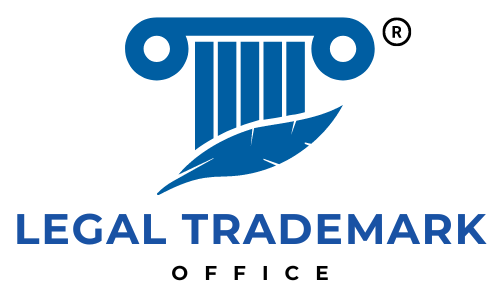
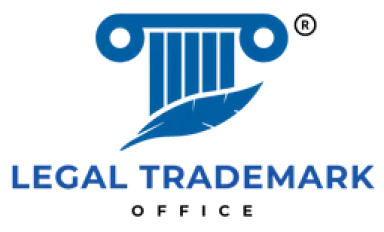
Save work in progress on master

diff --git a/components/ui/Header.jsx b/components/ui/Header.jsx
@@ -1,0 +1,74 @@
+"use client";
+
+import Image from "next/image";
+import React, { useState } from "react";
+import PrimaryButton from "./PrimaryButton";
+import Container from "./Container";
+import { navItems } from "@/constant";
+const Header = () => {
+  const [hoveredItemId, setHoveredItemId] = useState(null);
+
+  const handleMouseEnter = (id) => {
+    setHoveredItemId(id);
+  };
+
+  const handleMouseLeave = () => {
+    setHoveredItemId(null);
+  };
+
+  return (
+    <header className="bg-white">
+      <div className="flex justify-between items-center px-24 max-md:px-12 max-sm:px-8 py-4">
+        <div>
+          <Image
+            src={"/images/legal-trademark-office.png"}
+            alt="Legal Trademark Office logo"
+            width={100}
+            height={80}
+            className="object-contain"
+          />
+        </div>
+        <nav className="relative">
+          <ul className="flex space-x-8">
+            {navItems.map((item) => (
+              <li
+                key={item.id}
+                className="relative group"
+                onMouseEnter={() => handleMouseEnter(item.id)}
+                onMouseLeave={handleMouseLeave}
+              >
+                <a
+                  href={`${item.route}`}
+                  className="text-color-primary hover:text-blue-600 py-4 px-2"
+                >
+                  {item.text}
+                </a>
+                {item.subItems && (
+                  <ul
+                    className={`absolute left-0 mt-3 p-2 bg-white border border-gray-200 shadow-lg rounded-md transform transition-all duration-300 ease-in-out w-max ${
+                      hoveredItemId === item.id ? "block" : "hidden"
+                    } group-hover:block`}
+                  >
+                    {item.subItems.map((subItem) => (
+                      <li
+                        key={subItem.id}
+                        className="py-2 rounded-md px-3 hover:bg-gray-100"
+                      >
+                        <a href={`${subItem.route}`} className="text-gray-600">
+                          {subItem.text}
+                        </a>
+                      </li>
+                    ))}
+                  </ul>
+                )}
+              </li>
+            ))}
+          </ul>
+        </nav>
+        <PrimaryButton text="Trademark Now" animate={true} size="sm" />
+      </div>
+    </header>
+  );
+};
+
+export default Header;

diff --git a/app/layout.js b/app/layout.js
@@ -1,6 +1,7 @@
 import "./globals.css";
 import { Inter } from "next/font/google";
 import Script from "next/script";
+import GlobalProvider from "./GlobalProvider";
 
 const inter = Inter({ subsets: ["latin"] });
 
@@ -14,7 +15,7 @@ export default function RootLayout({ children }) {
   return (
     <html lang="en">
       {/* Tawk.to */}
-      <Script
+      {/* <Script
         id="tawkTo"
         type="text/javascript"
         dangerouslySetInnerHTML={{
@@ -30,10 +31,10 @@ export default function RootLayout({ children }) {
               })();
             `,
         }}
-      />
+      /> */}
 
       {/* Google Tag Manager */}
-      <Script
+      {/* <Script
         id="gtm"
         type="text/javascript"
         strategy="afterInteractive"
@@ -44,10 +45,10 @@ export default function RootLayout({ children }) {
               'https://www.googletagmanager.com/gtm.js?id='+i+dl;f.parentNode.insertBefore(j,f);
               })(window,document,'script','dataLayer','GTM-KJGHNHGM');`,
         }}
-      />
+      /> */}
 
       {/* MouseFlow Tracking */}
-      <Script
+      {/* <Script
         id="mfq"
         type="text/javascript"
         strategy="afterInteractive"
@@ -61,7 +62,7 @@ export default function RootLayout({ children }) {
               })();
             `,
         }}
-      />
+      /> */}
 
       <head>
         <meta
@@ -72,16 +73,16 @@ export default function RootLayout({ children }) {
       </head>
       <body className={inter.className}>
         {/* Google Tag Manager (noscript) */}
-        <noscript>
+        {/* <noscript>
           <iframe
             src="https://www.googletagmanager.com/ns.html?id=GTM-KJGHNHGM"
             height="0"
             width="0"
             style={{ display: "none", visibility: "hidden" }}
           ></iframe>
-        </noscript>
+        </noscript> */}
         {/* End Google Tag Manager (noscript) */}
-        {children}
+        <GlobalProvider>{children}</GlobalProvider>
       </body>
     </html>
   );

diff --git a/components/ui/PrimaryButton.jsx b/components/ui/PrimaryButton.jsx
@@ -1,0 +1,36 @@
+"use client";
+
+import { Button } from "@nextui-org/react";
+import { useRouter } from "next/navigation";
+import React, { useState } from "react";
+
+const PrimaryButton = ({ text, animate, size }) => {
+  const router = useRouter();
+  const [isLoading, setIsLoading] = useState(false);
+  const animation = animate && !isLoading ? "animate-expand" : "";
+  const handleButton = () => {
+    setIsLoading(true);
+    router.push("/trademark-register");
+  };
+
+  return (
+    <div>
+      <Button
+        isLoading={isLoading}
+        variant="shadow"
+        onClick={handleButton}
+        className={`rounded-md bg-color-primary text-white ${animation} ${
+          size === "sm" && `text-xs`
+        } ${size === "md" && `px-7 py-5 font-medium`} ${
+          size === "lg" && `px-12 py-6 font-semibold`
+        } ${size === "xl" && `px-16 py-6 font-semibold`} ${
+          size === "2xl" && `w-[90%] py-8 text-xl font-bold`
+        }`}
+      >
+        {text}
+      </Button>
+    </div>
+  );
+};
+
+export default PrimaryButton;

diff --git a/constant/index.js b/constant/index.js
@@ -83,3 +83,42 @@ export const serviceList = [
     text: "Full Preparation and Filing of your Official Trademark with USPTO",
   },
 ];
+
+export const navItems = [
+  {
+    id: 1,
+    text: "Home",
+    route: "home",
+  },
+  {
+    id: 2,
+    text: "Our Services",
+    route: "services",
+    subItems: [
+      {
+        id: 1,
+        text: "Trademark Registration",
+        route: "trademark-registration",
+      },
+      { id: 2, text: "Free Trademark Search", route: "#" },
+      { id: 3, text: "International Trademark ", route: "#" },
+      { id: 4, text: "Trademark Renewal", route: "#" },
+      { id: 5, text: "Trademark Revival", route: "#" },
+    ],
+  },
+  {
+    id: 3,
+    text: "Contact Us",
+    route: "contact",
+  },
+  {
+    id: 4,
+    text: "About Us",
+    route: "about",
+  },
+  {
+    id: 5,
+    text: "FAQ",
+    route: "faq",
+  },
+];

diff --git a/app/(main)/page.jsx b/app/(main)/page.jsx
@@ -1,0 +1,35 @@
+import React from "react";
+import Header from "@/components/ui/Header";
+import StatisticCountBox from "@/components/ui/StatisticCountBox";
+
+const page = () => {
+  return (
+    <>
+      <Header />
+      <main>
+        {/* Hero Section */}
+        {/* Statistic Section */}
+        <section className="flex-center gap-5">
+          <StatisticCountBox text={`Trademarks since 2009`} number={200000} />
+          <StatisticCountBox text={`Happy Customers`} number={120000} />
+          <StatisticCountBox text={`Years in Service`} number={15} />
+          <div></div>
+          <div></div>
+        </section>
+        <br />
+        <br />
+        <br />
+        <br />
+        <br />
+        <br />
+        <br />
+        <br />
+        <br />
+        <br />
+        <br />
+      </main>
+    </>
+  );
+};
+
+export default page;

diff --git a/components/ui/StatisticCountBox.jsx b/components/ui/StatisticCountBox.jsx
@@ -1,0 +1,21 @@
+"use client";
+
+import React from "react";
+import CountUp from "react-countup";
+
+const StatisticCountBox = ({ text, number }) => {
+  return (
+    <div className="col-flex gap-2">
+      <CountUp start={0} end={number} delay={0}>
+        {({ countUpRef }) => (
+          <div>
+            <span ref={countUpRef} /> <span>+</span>
+          </div>
+        )}
+      </CountUp>
+      <p className="text-gray-800 text-sm">{text}</p>
+    </div>
+  );
+};
+
+export default StatisticCountBox;

diff --git a/components/pages/PageLoader.jsx b/components/pages/PageLoader.jsx
@@ -4,7 +4,7 @@ import { FaSpinner } from "react-icons/fa6";
 const PageLoader = () => {
   return (
     <div className="w-full h-screen fixed top-0 left-0 bottom-0 backdrop-brightness-50 backdrop-blur-[2px] flex-center z-[99999]">
-      <FaSpinner className=" animate-spin font-bold text-5xl text-slate-900" />
+      <FaSpinner className=" animate-spin font-bold text-5xl text-blue-900" />
     </div>
   );
 };

diff --git a/components/form/steps/StepThree.jsx b/components/form/steps/StepThree.jsx
@@ -8,7 +8,7 @@ import { Button } from "@nextui-org/react";
 import { useRouter } from "next/navigation";
 import { saveStepThree } from "@/features/formSlice";
 import { _35_USD, _135_USD, _235_USD } from "@/constant/packages";
-import PageLoader from "@/components/PageLoader";
+import PageLoader from "@/components/pages/PageLoader";
 
 const StepThree = () => {
   const router = useRouter();

diff --git a/app/globals.css b/app/globals.css
@@ -17,6 +17,14 @@ a {
   text-decoration: none;
 }
 
+.text-color-primary {
+  color: #027dd6;
+}
+
+.bg-color-primary {
+  background: #027dd6;
+}
+
 .flex-center {
   @apply flex justify-center items-center;
 }
@@ -42,10 +50,6 @@ a {
   width: 100%;
   height: 100%;
   background: #0b206e8f;
-}
-
-.text-color-primary {
-  @apply text-[#ff385c];
 }
 
 .heroBg {

diff --git a/components/ui/Container.jsx b/components/ui/Container.jsx
@@ -1,0 +1,11 @@
+import React from "react";
+
+const Container = ({ children }) => {
+  return (
+    <div className="max-w-7xl px-24 max-md:px-12 max-sm:px-8 m-auto">
+      {children}
+    </div>
+  );
+};
+
+export default Container;

diff --git a/app/(main)/trademark-registration/page.js b/app/(main)/trademark-registration/page.js
@@ -5,9 +5,7 @@ import { NextUIProvider } from "@nextui-org/react";
 const page = () => {
   return (
     <main>
-      <NextUIProvider>
-        <LandingPage />
-      </NextUIProvider>
+      <LandingPage />
     </main>
   );
 };

diff --git a/app/(main)/trademark-registration/loading.js b/app/(main)/trademark-registration/loading.js
@@ -1,0 +1,12 @@
+import PageLoader from "@/components/pages/PageLoader";
+import React from "react";
+
+const loading = () => {
+  return (
+    <div>
+      <PageLoader />
+    </div>
+  );
+};
+
+export default loading;
